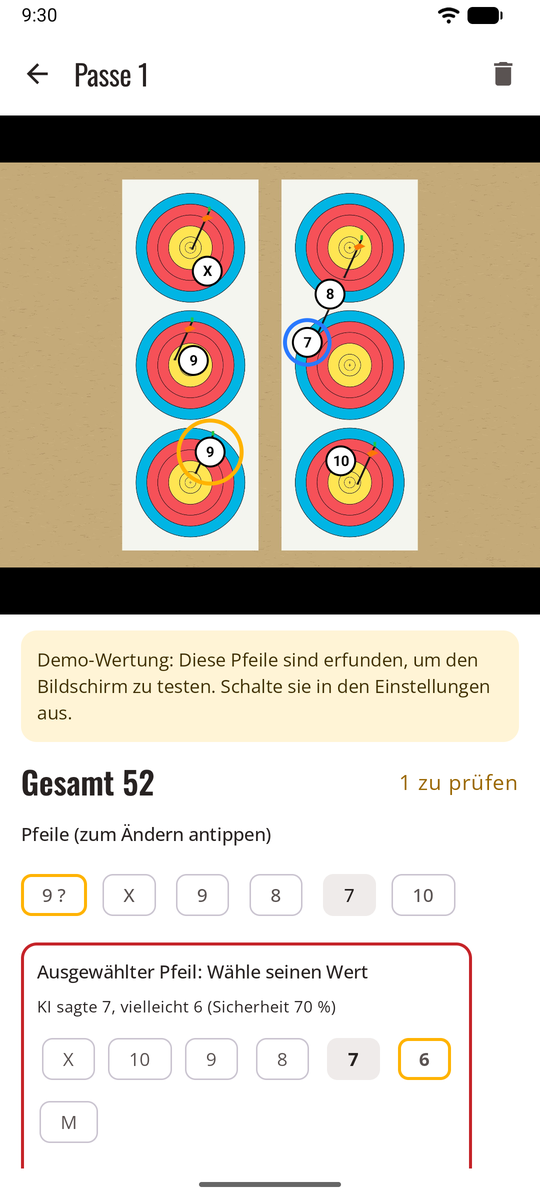
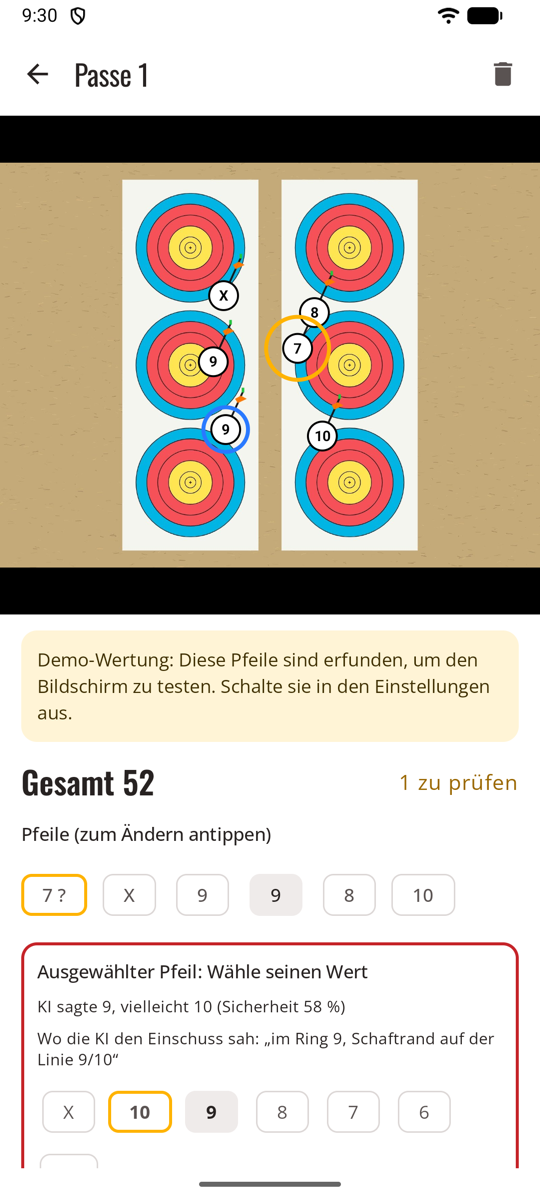
Update the sagitt·AI·re site

diff --git a/sagittaire/docs/screenshots.de.md b/sagittaire/docs/screenshots.de.md
@@ -14,7 +14,7 @@ Aufgenommen mit **sagitt·AI·re Demo**, einer Version der App mit sechs Monaten
 <figcaption><b>2 zu prüfen.</b> Pfeile nahe einer Linie oder mit geringer Sicherheit werden bernsteinfarben eingekreist und zuerst aufgelistet.</figcaption>
 </figure>
 <figure markdown>
-![Prüfung mit einem ausgewählten markierten Pfeil: Die Ringauswahl hebt 9 und 10 hervor; die KI sagte 9, vielleicht 10, mit 58 Prozent Sicherheit.](images/screenshots/de/review-select.png){ .shot }
+![Prüfung mit einem ausgewählten markierten Pfeil: Die Ringauswahl hebt 9 und 10 hervor; die KI sagte 9, vielleicht 10, mit 58 Prozent Sicherheit. Eine Zeile sagt, wo die KI den Einschuss sah: auf der Linie 9/10.](images/screenshots/de/review-select.png){ .shot }
 <figcaption><b>Einen Pfeil korrigieren.</b> Die zwei Ringe, zwischen denen die KI schwankt, sind hervorgehoben, mit ihrer Sicherheit.</figcaption>
 </figure>
 <figure markdown>

diff --git a/sagittaire/docs/screenshots.es.md b/sagittaire/docs/screenshots.es.md
@@ -14,7 +14,7 @@ Tomadas con **sagitt·AI·re Demo**, una versión de la app llena de seis meses 
 <figcaption><b>2 por revisar.</b> Las flechas cerca de una línea o con poca confianza se rodean en ámbar y se muestran primero.</figcaption>
 </figure>
 <figure markdown>
-![Revisión con una flecha marcada seleccionada: el selector de zona resalta el 9 y el 10; la IA dijo 9, quizá 10, con un 58 por ciento de confianza.](images/screenshots/es/review-select.png){ .shot }
+![Revisión con una flecha marcada seleccionada: el selector de zona resalta el 9 y el 10; la IA dijo 9, quizá 10, con un 58 por ciento de confianza. Una línea dice dónde la vio entrar la IA: sobre la línea 9/10.](images/screenshots/es/review-select.png){ .shot }
 <figcaption><b>Corregir una flecha.</b> Las dos zonas candidatas de la IA aparecen resaltadas, con su confianza.</figcaption>
 </figure>
 <figure markdown>

diff --git a/sagittaire/docs/screenshots.fr.md b/sagittaire/docs/screenshots.fr.md
@@ -14,7 +14,7 @@ Prises avec **sagitt·AI·re Demo**, une version de l'application remplie de six
 <figcaption><b>2 à vérifier.</b> Les flèches près d'une ligne ou peu sûres sont entourées en orange et listées en premier.</figcaption>
 </figure>
 <figure markdown>
-![Une flèche signalée sélectionnée : le choix de la zone met en évidence 9 et 10 ; l'IA a donné 9, peut-être 10, avec 58 % de confiance.](images/screenshots/fr/review-select.png){ .shot }
+![Une flèche signalée sélectionnée : le choix de la zone met en évidence 9 et 10 ; l'IA a donné 9, peut-être 10, avec 58 % de confiance. Une ligne dit où l’IA l’a vue entrer : sur la ligne 9/10.](images/screenshots/fr/review-select.png){ .shot }
 <figcaption><b>Corriger une flèche.</b> Les deux zones possibles selon l'IA sont mises en évidence, avec sa confiance.</figcaption>
 </figure>
 <figure markdown>

diff --git a/sagittaire/docs/screenshots.md b/sagittaire/docs/screenshots.md
@@ -14,7 +14,7 @@ Taken with **sagitt·AI·re Demo**, a version of the app filled with six months 
 <figcaption><b>2 to check.</b> Arrows near a line or with low confidence are circled in amber and listed first.</figcaption>
 </figure>
 <figure markdown>
-![Review with one flagged arrow selected: the ring picker highlights 9 and 10; the AI said 9, maybe 10, with 58 percent confidence.](images/screenshots/review-select.png){ .shot }
+![Review with one flagged arrow selected: the ring picker highlights 9 and 10; the AI said 9, maybe 10, with 58 percent confidence. A line says where the AI saw it go in: on the 9/10 line.](images/screenshots/review-select.png){ .shot }
 <figcaption><b>Fixing an arrow.</b> The AI's two candidate rings are highlighted, with its confidence.</figcaption>
 </figure>
 <figure markdown>

diff --git a/sagittaire/docs/review.de.md b/sagittaire/docs/review.de.md
@@ -8,7 +8,7 @@ Bevor eine Passe zählt, prüfst du sie: das Ergebnis der KI bei der [automatisc
 <figcaption><b>Zwei Pfeile zu prüfen</b></figcaption>
 </figure>
 <figure markdown>
-![Ein markierter Pfeil ist ausgewählt: Die Ringauswahl hebt die beiden Ringe hervor, die die KI in Frage kommen sieht, 9 und 10, mit ihrer Sicherheit.](images/screenshots/de/review-select.png){ .shot }
+![Ein markierter Pfeil ist ausgewählt: Die Ringauswahl hebt die beiden Ringe hervor, die die KI in Frage kommen sieht, 9 und 10, mit ihrer Sicherheit. Eine Zeile sagt, wo die KI den Einschuss sah: auf der Linie 9/10.](images/screenshots/de/review-select.png){ .shot }
 <figcaption><b>Den richtigen Ring wählen</b></figcaption>
 </figure>
 <figure markdown>

diff --git a/sagittaire/docs/review.fr.md b/sagittaire/docs/review.fr.md
@@ -8,7 +8,7 @@ Avant qu’une volée compte, vous la vérifiez : le résultat de l’IA avec l
 <figcaption><b>Deux flèches à vérifier</b></figcaption>
 </figure>
 <figure markdown>
-![Une flèche signalée sélectionnée : le choix de la zone met en évidence les deux zones possibles selon l’IA, 9 et 10, avec sa confiance.](images/screenshots/fr/review-select.png){ .shot }
+![Une flèche signalée sélectionnée : le choix de la zone met en évidence les deux zones possibles selon l’IA, 9 et 10, avec sa confiance. Une ligne dit où l’IA l’a vue entrer : sur la ligne 9/10.](images/screenshots/fr/review-select.png){ .shot }
 <figcaption><b>Choisir la bonne zone</b></figcaption>
 </figure>
 <figure markdown>

diff --git a/sagittaire/docs/how-it-works.de.md b/sagittaire/docs/how-it-works.de.md
@@ -59,7 +59,7 @@ Warum mehrere Signale? Die Sicherheit einer KI stimmt nicht immer. Gefährlich i
 
 <div class="shots" markdown>
 <figure markdown>
-![Ein markierter Pfeil ist ausgewählt: Die Ringauswahl hebt die beiden Ringe hervor, die die KI in Frage zieht, 9 und 10, mit ihrer Sicherheit.](images/screenshots/de/review-select.png){ .shot }
+![Ein markierter Pfeil ist ausgewählt: Die Ringauswahl hebt die beiden Ringe hervor, die die KI in Frage zieht, 9 und 10, mit ihrer Sicherheit. Eine Zeile sagt, wo die KI den Einschuss sah: auf der Linie 9/10.](images/screenshots/de/review-select.png){ .shot }
 <figcaption>Den richtigen Ring wählen, dann bestätigen</figcaption>
 </figure>
 </div>

diff --git a/sagittaire/docs/review.es.md b/sagittaire/docs/review.es.md
@@ -8,7 +8,7 @@ Antes de que una tanda cuente, la revisas: el resultado de la IA con los método
 <figcaption><b>Dos flechas por revisar</b></figcaption>
 </figure>
 <figure markdown>
-![Una flecha señalada seleccionada: el selector de zona resalta las dos zonas candidatas de la IA, 9 y 10, con su confianza.](images/screenshots/es/review-select.png){ .shot }
+![Una flecha señalada seleccionada: el selector de zona resalta las dos zonas candidatas de la IA, 9 y 10, con su confianza. Una línea dice dónde la vio entrar la IA: sobre la línea 9/10.](images/screenshots/es/review-select.png){ .shot }
 <figcaption><b>Elegir la zona correcta</b></figcaption>
 </figure>
 <figure markdown>

diff --git a/sagittaire/docs/how-it-works.fr.md b/sagittaire/docs/how-it-works.fr.md
@@ -59,7 +59,7 @@ Pourquoi plusieurs signaux ? La confiance d'une IA n'est pas toujours juste. Le
 
 <div class="shots" markdown>
 <figure markdown>
-![Une flèche signalée sélectionnée : le choix de la zone met en évidence les deux zones possibles selon l'IA, 9 et 10, avec sa confiance.](images/screenshots/fr/review-select.png){ .shot }
+![Une flèche signalée sélectionnée : le choix de la zone met en évidence les deux zones possibles selon l'IA, 9 et 10, avec sa confiance. Une ligne dit où l’IA l’a vue entrer : sur la ligne 9/10.](images/screenshots/fr/review-select.png){ .shot }
 <figcaption>Choisir la bonne zone, puis valider</figcaption>
 </figure>
 </div>

diff --git a/sagittaire/docs/how-it-works.es.md b/sagittaire/docs/how-it-works.es.md
@@ -59,7 +59,7 @@ Un aviso también te advierte cuando el número de flechas encontradas no es el 
 
 <div class="shots" markdown>
 <figure markdown>
-![Una flecha señalada y seleccionada: el selector de zonas resalta las dos zonas candidatas de la IA, 9 y 10, con su confianza.](images/screenshots/es/review-select.png){ .shot }
+![Una flecha señalada y seleccionada: el selector de zonas resalta las dos zonas candidatas de la IA, 9 y 10, con su confianza. Una línea dice dónde la vio entrar la IA: sobre la línea 9/10.](images/screenshots/es/review-select.png){ .shot }
 <figcaption>Elige la zona correcta y luego confirma</figcaption>
 </figure>
 </div>

diff --git a/sagittaire/docs/review.md b/sagittaire/docs/review.md
@@ -8,7 +8,7 @@ Before an end counts, you check it: the AI's result with the [automatic](scoring
 <figcaption><b>Two arrows to check</b></figcaption>
 </figure>
 <figure markdown>
-![A flagged arrow selected: the ring picker highlights the AI's two candidate rings, 9 and 10, with its confidence.](images/screenshots/review-select.png){ .shot }
+![A flagged arrow selected: the ring picker highlights the AI's two candidate rings, 9 and 10, with its confidence. A line says where the AI saw it go in: on the 9/10 line.](images/screenshots/review-select.png){ .shot }
 <figcaption><b>Choosing the right ring</b></figcaption>
 </figure>
 <figure markdown>

diff --git a/sagittaire/docs/how-it-works.md b/sagittaire/docs/how-it-works.md
@@ -59,7 +59,7 @@ Why several signals? An AI's confidence isn't always right. The dangerous case i
 
 <div class="shots" markdown>
 <figure markdown>
-![A flagged arrow selected: the ring picker highlights the AI's two candidate rings, 9 and 10, with its confidence.](images/screenshots/review-select.png){ .shot }
+![A flagged arrow selected: the ring picker highlights the AI's two candidate rings, 9 and 10, with its confidence. A line says where the AI saw it go in: on the 9/10 line.](images/screenshots/review-select.png){ .shot }
 <figcaption>Pick the right ring, then confirm</figcaption>
 </figure>
 </div>
